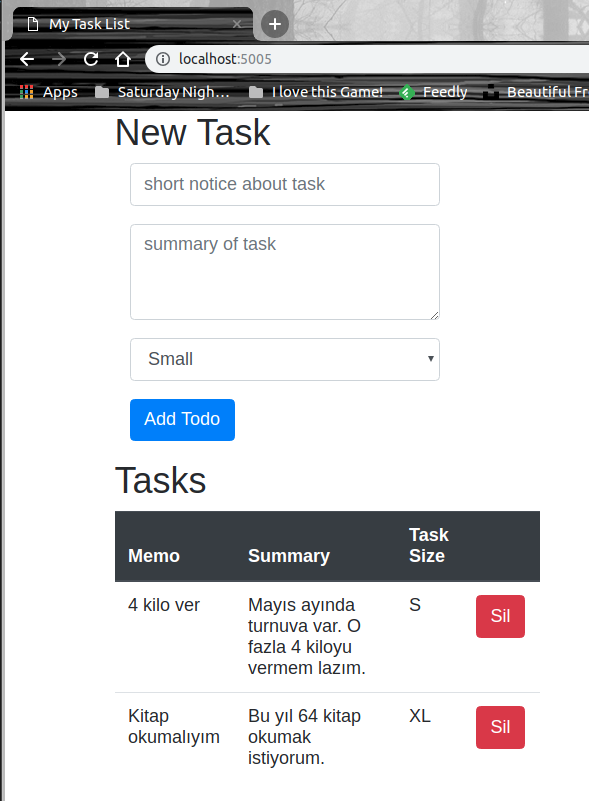
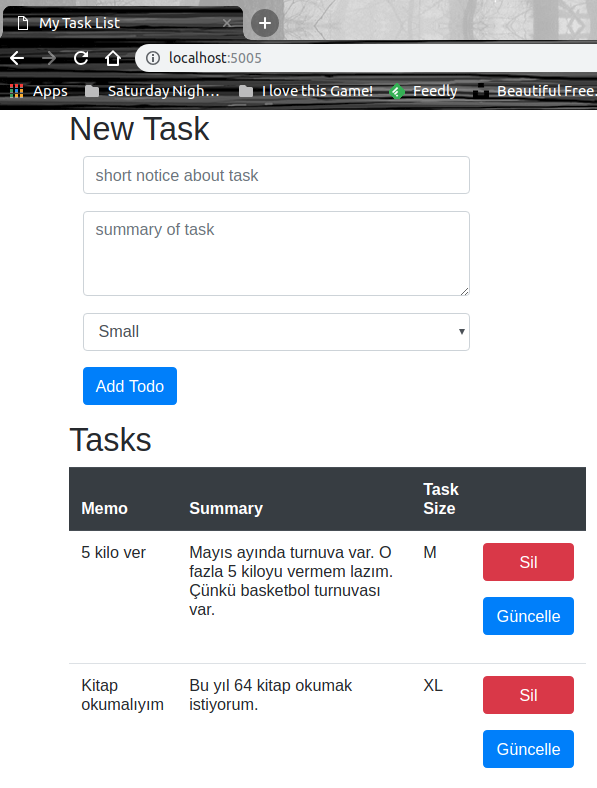
konu anlatımı güncellendi

diff --git a/No 36 - SQLite with Flask/README.md b/No 36 - SQLite with Flask/README.md
@@ -1,6 +1,6 @@
 # Flask Üzerinden SQLite ile Konuşan Bir Python Uygulaması
 
-Amacım bir parça Python kodu yazarak bilgilerimi tazelemekti. SQLite veri tabanını kullanan, CRUD operasyonlarını Flask üzerinden servis çağrıları ile gerçekleştiren _(Flask aynı zamanda web yönlendirmelerini de üstlenecek)_ basit bir Web sayfası tasarlamaya karar verdim. Python ile veri tabanı arasındaki geçişleri daha anlaşılır kılmak için SQLAlchemy, Flask ile SQLAlchemy arasındaki geçişleri basitleştirmek içinse flask-sqlalchemy modüllerini kullanmak istedim.
+Amacım bir parça Python kodu yazarak bilgilerimi tazelemekti. SQLite veri tabanını kullanan, CRUD operasyonlarını Flask üzerinden HTTP Post çağrıları ile gerçekleştiren _(Flask aynı zamanda web yönlendirmeleri de yapar)_ basit bir Web sayfası tasarlamaya karar verdim. Python ile veri tabanı arasındaki geçişleri daha anlaşılır kılmak için SQLAlchemy, Flask ile SQLAlchemy arasındaki geçişleri basitleştirmek içinse flask-sqlalchemy modüllerini kullanmak istedim.
 
 ## Gereksinimler ve Hazırlıklar
 
@@ -12,18 +12,18 @@ cd taskman
 touch main.py
 mkdir templates
 touch templates/index.html
-
+touch templates/edit.html
 ```
 
-Aşağıdaki şekilde görülen iskeleti oluşturdum. 
+Aşağıdaki şekilde görülen basit proje iskeleti oluştu. Django tarafı kadar kalabalık değil ama python antrenmanı yapmak için yeterli bir çalışma alanı tesis ettim. 
 
 ![assets/credit_1.png](assets/credit_1.png)
 
-Ana kod yüklenicimiz main.py ve web sayfası index.html şeklinde. templates klasörü otomatik olarak Flask tarafından takip ediliyor olacak. _(Koddaki yorum satırlarını okuyunuz)_
+Ana kod yüklenicimiz main.py. İki web sayfamız var. index.html ve edit.html. index sayfasında yeni görev ekleme, var olan görevleri görüntüleme ve silme fonksiyonelliklerini sunacağız. edit.html sayfasında ise, index.html'den seçilen bir göreve ait bilgileri güncelleyebileceğiz. templates klasörü Flask tarafından otomatik olarak takip edilecek. _(Koddaki yorum satırlarını okuyunuz)_ 
 
 Sırada uygulama için gerekli python modüllerinin yüklenmesi var.
 
->WestWorld _(Ubuntu 18.04, 64bit)_ python ve pip ortamlarına sahiptir
+>WestWorld _(Ubuntu 18.04, 64bit)_ python ve pip ortamlarına sahip. Siz platformunuza göre gerekli yüklemeleri yapabilirsiniz. Burada detay verebilirdim ama gıcık olduğum için sizin araştırmanızı istemekteyim.
 
 ```
 pip3 install --user flask sqlalchemy flask-sqlalchemy
@@ -31,7 +31,7 @@ pip3 install --user flask sqlalchemy flask-sqlalchemy
 
 ## Veri tabanının oluşturulması
 
-Veri tabanını oluşturmak için kod dosyasını tamamladıktan sonra terminalden python3 ile gidip aşağıdaki ifadeleri çalıştırmak yeterli.
+Veri tabanını oluşturmak için main.py içeriğini tamamladıktan sonra terminalden python3 programını kullanarak aşağıdaki ifadeleri çalıştırmak yeterli olacaktır.
 
 ```
 from main import db
@@ -39,7 +39,7 @@ db.create_all()
 exit()
 ```
 
-Sorun olmazsa Fabrikam.db isimli SQLite veritabanı oluşacaktır. Visual Studio Code SQLite Explorer'dan veri tabanı içeriğini görebiliriz.
+Sorun olmazsa Fabrikam.db isimli SQLite veritabanı oluşur. Visual Studio Code SQLite Explorer'dan _(bu bir extension olarak yüklenir)_ veri tabanı içeriğini görebiliriz.
 
 ![assets/credit_2.png](assets/credit_2.png)
 
@@ -51,25 +51,29 @@ Uygulamayı aşağıdaki terminal komutu ile çalıştırıp http://localhost:50
 python3 main.py
 ```
 
-Örnek bir kaç veri girişi yapıldığındaki durum;
+Örnek bir kaç veri girişi yapıldıktan sonraki durum aşağıda görüldüğü gibidiri.
 
 ![assets/credit_3.png](assets/credit_3.png)
 
-ki SQLite veri tabanındaki todo tablosunun içeriği de dolmuştur.
+ki bu işlemlere göre SQLite tarafındaki todo tablosunun içeriği de dolar.
 
 ![assets/credit_4.png](assets/credit_4.png)
+
+Verileri güncellemek için edit.html sayfasını kullanabiliriz. Yaptığımız değişiklikleri kaydettikten sonra da tekrar ana sayfaya yönlendiriliriz.
+
+![assets/credit_6.png](assets/credit_6.png)
 
 Bu arada çalışma zamanında meydana gelen hareketlilikleri terminal pencersinden de görebiliriz.
 
 ![assets/credit_5.png](assets/credit_5.png)
 
->ToBeContinued("Update bölümü eklenmeli");
-
 ## Neler Öğrendim
 
 - Flask ile HTTP taleplerinin nasıl karşılanacağını
 - templates klasöründeki HTML içeriklerinin otomatik render edilebileceğini
-- form'dan gelen değerlerin python tarafında nasıl ele alındığını
-- HTML içerisinde python kodlarındaki değişkenlere nasıl erişilebileceğini
-- 
+- form'dan gelen değerlerin python kod tarafında nasıl yakalandığını
+- HTML içerisinde python kodlarında tanımlı değişkenlere nasıl erişilebileceğini
+- redirect ve render_template kullanımlarını 
+- Basit query çağrıları ile veri sorgulamayı
+- Uygulamayı belli bir port üzerinden nasıl sunabileceğimi
 - Bootstrap stillerini CDN üzerinden kullanmayı
